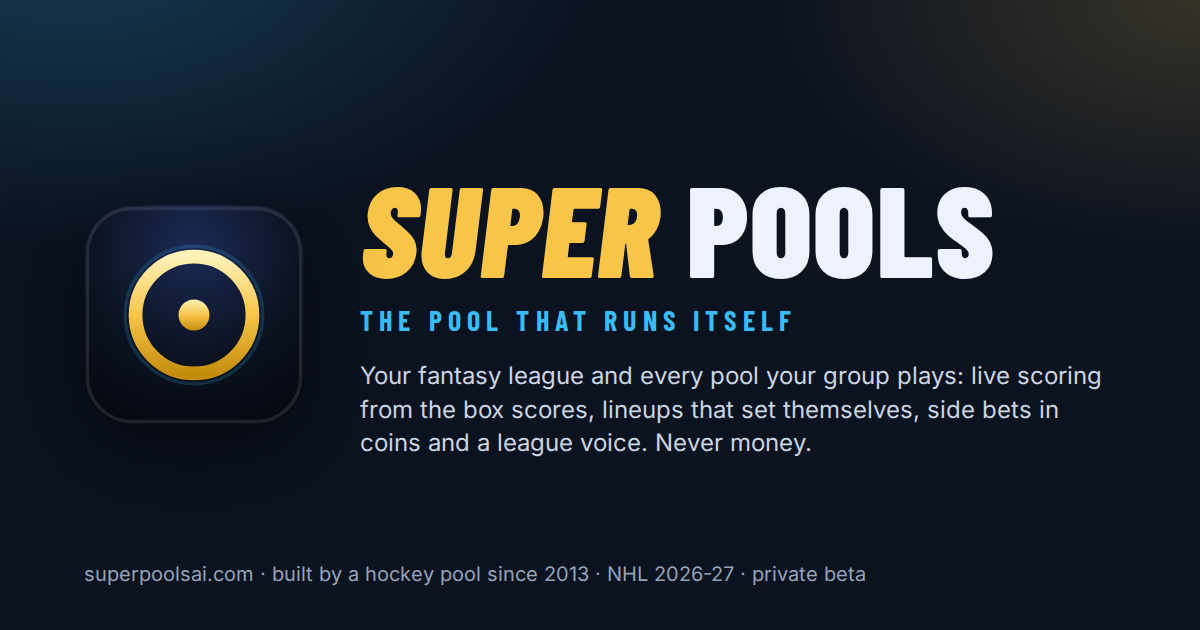
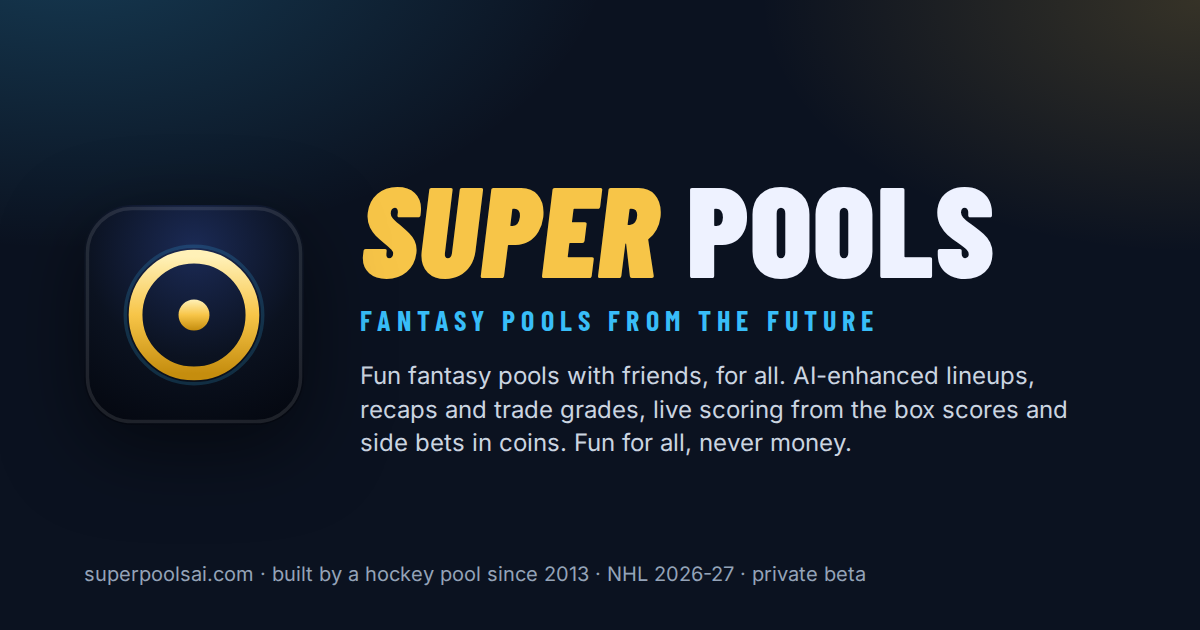
Tagline: Fantasy Pools from the Future
The home page leads with it, "from the Future" in gold running into ice with a slow shimmer, and carries its three lines:
chips above the headline (with friends, AI-enhanced, fun for all) and a full-width row of three cards under the hero
(fun fantasy pools with friends; AI-enhanced everything; fun for all). The page title, the share card and
PRODUCT.tagline say it too; docs/BRAND.md records it.

Claude-Session: https://claude.ai/code/session_01Hp9VkTQfXe9iCuWbtJF6dH

Changed region(s): [[0.2775, 0.573, 0.925, 0.7238], [0.2775, 0.4825, 0.74, 0.5429]]

diff --git a/landing/index.html b/landing/index.html
@@ -3,15 +3,15 @@
 <head>
   <meta charset="utf-8" />
   <meta name="viewport" content="width=device-width, initial-scale=1" />
-  <title>Super Pools · The pool that runs itself</title>
-  <meta name="description" content="Super Pools is the home for your fantasy league and every pool your group plays. Live scoring from the box scores, lineups that set themselves, side bets in coins, a league voice that talks trash, and questions with odds that move as your buddies call them. Built by a hockey pool that has drafted every fall since 2013. Free to start, never money." />
+  <title>Super Pools · Fantasy pools from the future</title>
+  <meta name="description" content="Fantasy pools from the future: fun fantasy pools with friends, for all, AI-enhanced and free to start. Super Pools is the home for your fantasy league and every pool your group plays. Live scoring from the box scores, lineups that set themselves, side bets in coins, a league voice that talks trash, and questions with odds that move as your buddies call them. Built by a hockey pool that has drafted every fall since 2013. Free to start, never money." />
   <link rel="canonical" href="https://superpoolsai.com/" />
   <link rel="icon" href="./icon.svg" type="image/svg+xml" />
   <meta name="theme-color" content="#0b1220" />
   <meta property="og:type" content="website" />
   <meta property="og:url" content="https://superpoolsai.com/" />
-  <meta property="og:title" content="Super Pools · The pool that runs itself" />
-  <meta property="og:description" content="Your fantasy league and every pool your group plays, in one home. Live scoring, lineups that set themselves, side bets in coins, a league voice. Never money." />
+  <meta property="og:title" content="Super Pools · Fantasy pools from the future" />
+  <meta property="og:description" content="Fun fantasy pools with friends, for all. AI-enhanced, free to start, never money. Your fantasy league and every pool your group plays, in one home. Live scoring, lineups that set themselves, side bets in coins, a league voice. Never money." />
   <meta property="og:image" content="https://superpoolsai.com/og.png" />
   <meta name="twitter:card" content="summary_large_image" />
   <link rel="stylesheet" href="./site.css" />
@@ -22,6 +22,23 @@
     .stage .board { position: relative; z-index: 2; }
     .voice { position: relative; z-index: 3; margin: -18px 10px 0 auto; max-width: 330px; }
     .voice .msg { margin: 0; }
+    /* the headline: "from the Future" in gold running into ice, with a slow shimmer */
+    .future { background: linear-gradient(92deg, #fff1b8 0%, #f7c548 30%, #7dd3fc 62%, #38bdf8 80%, #fff1b8 100%); background-size: 220% 100%;
+      -webkit-background-clip: text; background-clip: text; color: transparent; padding-right: .08em; animation: shimmer 9s ease-in-out infinite alternate; }
+    @keyframes shimmer { from { background-position: 0% 50%; } to { background-position: 100% 50%; } }
+    @media (prefers-reduced-motion: reduce) { .future { animation: none; } }
+    .tags { display: flex; flex-wrap: wrap; gap: 8px; }
+    .tags span { display: inline-flex; align-items: center; gap: 7px; padding: 6px 12px; border-radius: 999px; font-family: 'Barlow Condensed', sans-serif; font-weight: 700;
+      font-size: 13px; letter-spacing: .16em; text-transform: uppercase; border: 1px solid rgba(255,255,255,.12); background: rgba(255,255,255,.04); color: var(--soft); }
+    .tags span::before { content: ''; width: 7px; height: 7px; border-radius: 50%; background: var(--c); box-shadow: 0 0 10px var(--c); }
+    .pillars { display: grid; gap: 12px; grid-template-columns: 1fr; margin-top: 34px; }
+    @media (min-width: 760px) { .pillars { grid-template-columns: repeat(3, 1fr); } .pillar { padding: 18px 20px; } .pillar b { font-size: 24px; } .pillar span { font-size: 14px; } }
+    .hero h1 { font-size: clamp(54px, 8.2vw, 94px); }
+    .pillar { position: relative; overflow: hidden; border-radius: 18px; padding: 14px 14px 13px; border: 1px solid rgba(255,255,255,.09); background: linear-gradient(180deg, rgba(255,255,255,.05), rgba(255,255,255,.015)); }
+    .pillar::before { content: ''; position: absolute; inset: 0 0 auto 0; height: 2px; background: linear-gradient(90deg, var(--c), transparent); }
+    .pillar b { display: block; font-family: 'Barlow Condensed', sans-serif; font-weight: 900; font-size: 20px; line-height: 1.05; letter-spacing: .01em; color: var(--ink); }
+    .pillar b i { font-style: normal; color: var(--c); }
+    .pillar span { display: block; margin-top: 5px; font-size: 12.5px; line-height: 1.45; color: var(--mute); }
   </style>
 </head>
 <body>
@@ -48,14 +65,13 @@
 
     <div class="hero">
       <div>
-        <div class="eyebrow">Fantasy · side bets · pools for every game</div>
-        <h1 class="display">The pool that <span class="l2"><em class="grad-gold">runs itself.</em></span></h1>
-        <p class="lead">Your league, minus the spreadsheet. Points land as the box scores change, lineups set themselves, the side bets settle on their own and a league voice posts the recap and the trash talk. Built by a hockey pool that has drafted every fall since 2013.</p>
+        <div class="tags"><span style="--c:#f7c548">With friends</span><span style="--c:#38bdf8">AI-enhanced</span><span style="--c:#34d399">Fun for all</span></div>
+        <h1 class="display">Fantasy Pools <span class="l2"><em class="future">from the Future.</em></span></h1>
+        <p class="lead">Fun fantasy pools with friends, for all. Points land as the box scores change, lineups set themselves, the side bets settle on their own, and an AI-enhanced league voice posts the recap and the trash talk. Built by a hockey pool that has drafted every fall since 2013.</p>
         <div class="cta">
           <a class="btn btn-gold" href="#join" data-pick="A hockey pool">Bring your pool</a>
           <a class="btn btn-ghost" href="#runs">See how it runs</a>
         </div>
-        <div class="trust"><span>Free to start</span><span>No app to download</span><span>Never real money</span></div>
       </div>
       <div class="stage rv" aria-label="A game night in a sample pool">
         <div class="phone glow-gold" aria-hidden="true"><img src="./img/sak-live.webp" alt="" width="600" height="1200" loading="eager" /></div>
@@ -71,6 +87,12 @@
           <div class="msg bot"><span class="av" style="background:#f7c548">G</span><div class="bub"><small>GARRY · THE LEAGUE VOICE</small>Five Hole Heroes left 11.5 points on the bench again. Somebody check on him.</div></div>
         </div>
       </div>
+    </div>
+
+    <div class="pillars">
+      <div class="pillar" style="--c:#f7c548"><b>Fun fantasy pools <i>with friends</i></b><span>Your league, your buddies, your group chat. One link and everyone is in.</span></div>
+      <div class="pillar" style="--c:#38bdf8"><b><i>AI-enhanced</i> everything</b><span>AI-optimized lineups, recaps, trade grades and odds that know your league.</span></div>
+      <div class="pillar" style="--c:#34d399"><b>Fun <i>for all</i></b><span>Free to start, no app to download, never real money. Everyone is welcome.</span></div>
     </div>
 
     <div class="ticker" aria-label="Sample questions from pools">

diff --git a/landing/og.html b/landing/og.html
@@ -19,8 +19,8 @@
   <svg class="mark" viewBox="0 0 64 64"><defs><radialGradient id="bg" cx="50%" cy="20%" r="90%"><stop offset="0" stop-color="#1b2a55"/><stop offset=".55" stop-color="#0b1220"/><stop offset="1" stop-color="#04070f"/></radialGradient><linearGradient id="gold" x1="0" y1="0" x2="0" y2="1"><stop offset="0" stop-color="#fff1b8"/><stop offset=".5" stop-color="#f7c548"/><stop offset="1" stop-color="#c58d0e"/></linearGradient></defs><rect width="64" height="64" rx="14" fill="url(#bg)"/><rect x="1" y="1" width="62" height="62" rx="13" fill="none" stroke="#fff" stroke-opacity=".1"/><circle cx="32" cy="32" r="20" fill="none" stroke="#38bdf8" stroke-opacity=".18" stroke-width="1"/><circle cx="32" cy="32" r="17" fill="none" stroke="url(#gold)" stroke-width="4"/><circle cx="32" cy="32" r="4.5" fill="url(#gold)"/><g stroke="url(#gold)" stroke-width="2.6" stroke-linecap="round"><line x1="25" y1="8" x2="25" y2="12.5"/><line x1="39" y1="8" x2="39" y2="12.5"/><line x1="25" y1="51.5" x2="25" y2="56"/><line x1="39" y1="51.5" x2="39" y2="56"/></g></svg>
   <div>
     <div class="word"><b>SUPER</b> POOLS</div>
-    <div class="tag">The pool that runs itself</div>
-    <div class="sub">Your fantasy league and every pool your group plays: live scoring from the box scores, lineups that set themselves, side bets in coins and a league voice. Never money.</div>
+    <div class="tag">Fantasy pools from the future</div>
+    <div class="sub">Fun fantasy pools with friends, for all. AI-enhanced lineups, recaps and trade grades, live scoring from the box scores and side bets in coins. Fun for all, never money.</div>
   </div>
   <div class="foot">superpoolsai.com · built by a hockey pool since 2013 · NHL 2026-27 · private beta</div>
 </body></html>

diff --git a/src/lib/brand.ts b/src/lib/brand.ts
@@ -19,7 +19,7 @@ export interface Brand {
 }
 
 // the product behind the league (docs/BRAND.md): the name, the line under it, and where it lives
-export const PRODUCT = { name: 'Super Pools', tagline: 'The AI-enhanced pool that runs itself', domain: 'superpoolsai.com', url: 'https://superpoolsai.com' } as const;
+export const PRODUCT = { name: 'Super Pools', tagline: 'Fantasy pools from the future', domain: 'superpoolsai.com', url: 'https://superpoolsai.com' } as const;
 
 export const SAK_BRAND: Brand = {
   wordmark: { a: 'SAK', b: 'SUPERLEAGUE' }, tagline: 'She’s A Keeper', short: 'SaK', trophy: 'The SAK Cup', regular: 'The Johnson',

diff --git a/docs/BRAND.md b/docs/BRAND.md
@@ -12,14 +12,16 @@ the sports season and prediction pools for anything the group watches, with the 
 built in, and never any money. A prediction pool looks like a prediction market (every answer has a price that reads as
 a probability and moves as friends pick) and feels like the group chat with a scoreboard.
 
-**Lead line:** Call it before your friends do. **Tagline:** Pools for everything you watch. (Fantasy copy keeps the
-AI-enhanced pool that runs itself.)
+**Tagline (Patrick, 4 October 2026):** Fantasy Pools from the Future. Three lines carry it, always together, in this
+order: fun fantasy pools with friends, for all; AI-enhanced (written so, never "Ai"); fun for all. It heads the home page,
+the share card and `PRODUCT.tagline`. **Lead line** for prediction pools and `together.html`: Call it before your
+friends do (with "Pools for everything you watch"). Fantasy copy still says what it does: the pool that runs itself.
 
 The fantasy door, as it was written for hockey: it starts with hockey. It scores the league from the box scores every night, settles the side bets, sets the lineups GMs planned weeks ago, runs the
 draft, and gives the league a voice that posts the recap, grades the trades and answers "who should I
 start?" in the chat. The commissioner runs the league. Super Pools does the bookkeeping.
 
-**Tagline:** The AI-enhanced pool that runs itself. (In hockey copy, the AI-enhanced hockey pool that runs
+**Fantasy line (under the tagline):** The AI-enhanced pool that runs itself. (In hockey copy, the AI-enhanced hockey pool that runs
 itself; the word "hockey" drops as the sports arrive.)
 
 **Positioning statement.** For commissioners of serious hockey pools (keeper and dynasty leagues, six to
